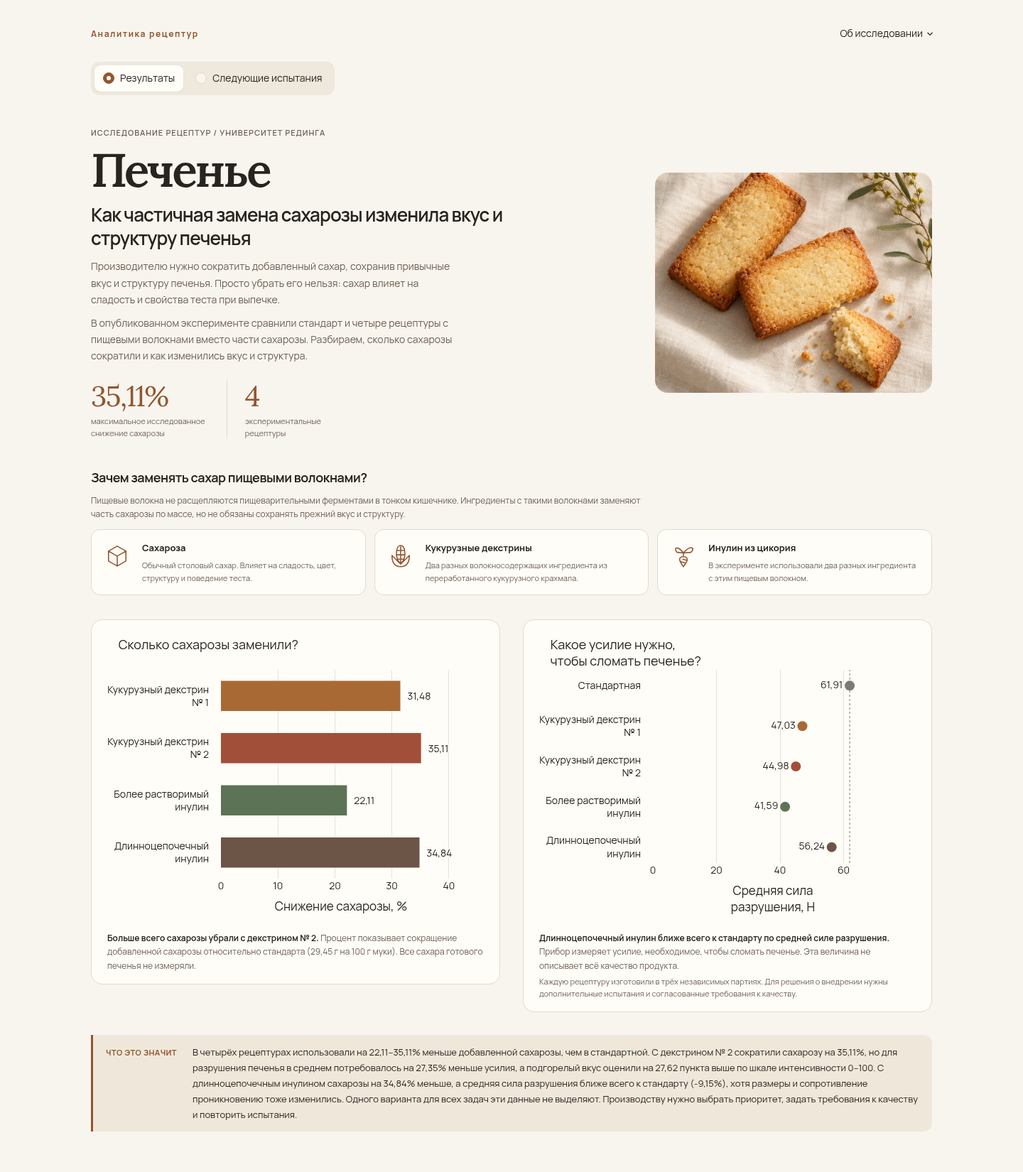
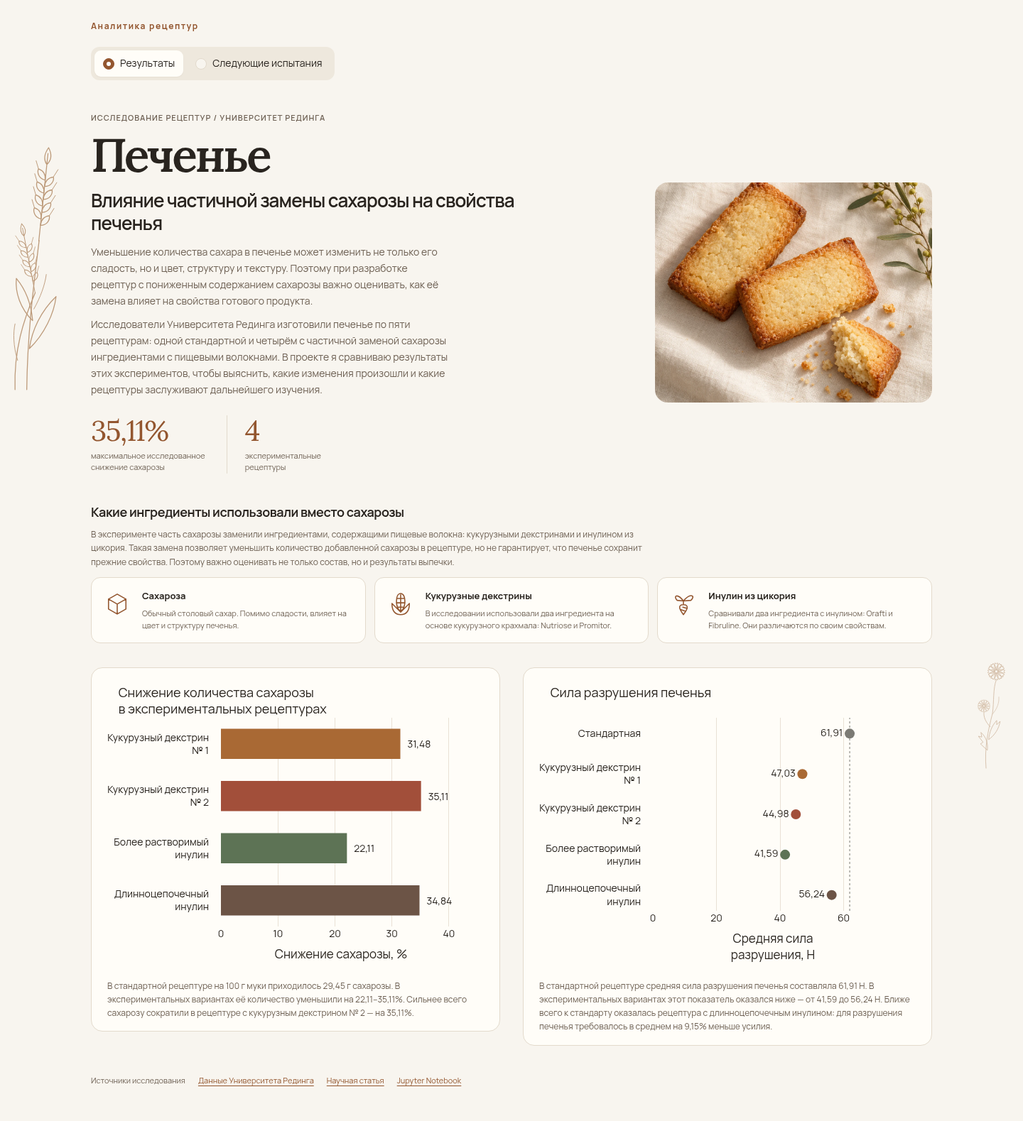
Polish recommendation cards, sources and responsive checks

diff --git a/data/assets/styles.css b/data/assets/styles.css
@@ -89,13 +89,13 @@
   background: var(--paper); border: 1px solid var(--line); border-top: 3px solid var(--recipe-color);
   border-radius: 14px; padding: 18px; display: flex; flex-direction: column;
 }
-.priority {font-size: 10px; font-weight: 650; color: var(--muted); text-transform: uppercase; letter-spacing: .035em; margin: 0 0 12px; min-height: 30px;}
 .recommendation h3 {font-family: Manrope, sans-serif; font-size: 15px; line-height: 1.4; margin: 0 0 14px; min-height: 42px;}
 .recommendation-result {font-family: Lora, Georgia, serif; font-size: 30px; line-height: 1.2; letter-spacing: -.03em; color: var(--recipe-color);}
 .result-label {font-size: 11px; color: var(--muted); line-height: 1.55; margin: 5px 0 16px; min-height: 34px;}
 .recommendation-story {font-size: 12px; line-height: 1.7; margin: 0 0 18px;}
 .next-test {font-size: 12px; line-height: 1.65; margin: auto 0 0; border-top: 1px solid var(--line); padding-top: 12px; min-height: 90px;}
-.next-test strong {display: block; margin-bottom: 3px; font-size: 10px; color: var(--muted); font-weight: 600; text-transform: uppercase; letter-spacing: .035em;}
+.study-sources {display: flex; flex-wrap: wrap; gap: 8px 18px; margin-top: 24px; font-size: 11px; line-height: 1.6; color: var(--muted);}
+.study-sources a {color: var(--caramel); text-underline-offset: 3px;}
 @media (max-width: 1050px) {
   .stMainBlockContainer {padding: 1.5rem 2rem 2rem;}
   .hero {gap: 26px;}
@@ -105,6 +105,12 @@
   .ingredient-card {padding: 12px; gap: 10px;}
   .ingredient-icon {width: 32px; height: 32px;}
   .recommendation {padding: 14px;}
+}
+@media (max-width: 900px) {
+  [data-testid="stHorizontalBlock"]:has(.st-key-sugar_panel) {flex-direction: column;}
+  [data-testid="stHorizontalBlock"]:has(.st-key-sugar_panel) > [data-testid="stColumn"] {width: 100%; flex: 1 1 100%;}
+  .recommendation-grid {grid-template-columns: 1fr;}
+  .recommendation h3, .result-label, .next-test {min-height: unset;}
 }
 @media (max-width: 740px) {
   .stMainBlockContainer {padding: 1rem 1rem 1.8rem;}
@@ -128,7 +134,6 @@
   .page-heading h1 {font-size: 28px;}
   .recommendations h2 {font-size: 17px;}
   .recommendation h3 {min-height: unset; margin-bottom: 10px;}
-  .priority {min-height: unset;}
   .result-label {min-height: unset; margin-bottom: 12px;}
   .recommendation-result {font-size: 29px;}
   .next-test {min-height: unset;}

diff --git a/data/tests/browser_smoke.py b/data/tests/browser_smoke.py
@@ -24,11 +24,19 @@ def check_page(page, plots, points):
     assert page.locator('[data-testid="stException"]').count() == 0
     expect(page).to_have_title("Печенье · снижение сахарозы")
     assert not page.evaluate("document.documentElement.scrollWidth > innerWidth")
-    expect(page.get_by_role("button", name="Об исследовании", exact=True)).to_have_count(0)
     expect(page.locator('.takeaway')).to_have_count(0)
-    # Источники и ограничения сохранены в README и notebook.
-    assert page.get_by_role("link", name="Научная статья", exact=True).count() == 0
-    assert page.get_by_text("Rodriguez-Garcia et al., 2022", exact=False).count() == 0
+    assert page.evaluate('document.fonts.check("14px Manrope") && document.fonts.check("16px Lora")')
+    footer = page.locator('.study-sources')
+    expect(footer).to_have_count(1)
+    for name, href in [
+        ("Данные Университета Рединга", "https://doi.org/10.17864/1947.000384"),
+        ("Научная статья", "https://doi.org/10.1016/j.lwt.2022.113837"),
+        ("Jupyter Notebook", "https://github.com/Alina-lab/cookies/blob/main/biscuit_recipe_analysis.ipynb"),
+    ]:
+        link = footer.get_by_role('link', name=name, exact=True)
+        expect(link).to_have_attribute('href', href)
+        link.scroll_into_view_if_needed()
+        expect(link).to_be_visible()
     ornaments = page.locator('[data-testid="stAppViewContainer"]').evaluate("""e =>
         ['::before', '::after'].map(pseudo => {
             const s=getComputedStyle(e, pseudo);
@@ -49,6 +57,17 @@ def check_page(page, plots, points):
         assert left['left'] >= 0 and left['left'] + left['width'] < content['x'], left
         assert right['right'] >= 0 and right['right'] + right['width'] < width - content['x'] - content['width'], right
         assert left['width'] > right['width'] and left['opacity'] > right['opacity'], ornaments
+
+
+def check_text_layout(page):
+    overflowing = page.locator('.hero h1, .hero-question, .page-heading h1, .ingredient-card, .recommendation, .recommendation h3, .recommendation-result, .result-label, .recommendation-story, .next-test, .study-sources a').evaluate_all('''es =>
+        es.filter(e=>{
+            // Выносные элементы шрифта могут выходить за line-height без обрезания.
+            const clipped=['hidden','clip'].includes(getComputedStyle(e).overflowY);
+            return e.scrollWidth>e.clientWidth+1 || (clipped && e.scrollHeight>e.clientHeight+1);
+        }).map(e=>e.textContent)
+    ''')
+    assert not overflowing, overflowing
 
 
 def check_chart_labels(page):
@@ -87,11 +106,25 @@ def check_chart_labels(page):
             assert gaps['between'] >= 20, gaps
 
 
-def screenshot(page, directory, name):
+def screenshot(page, directory, name, top=True):
     if directory:
         page.mouse.move(0, 0)
-        page.locator('[data-testid="stMain"]').evaluate("e => e.scrollTop=0")
+        if top:
+            page.locator('[data-testid="stMain"]').evaluate("e => e.scrollTop=0")
+        page.wait_for_function("[...document.querySelectorAll('.modebar--hover .modebar-group')].every(e=>parseFloat(getComputedStyle(e).opacity)<0.01)")
         page.screenshot(path=str(directory / name))
+
+
+def full_screenshot(page, directory, name):
+    if directory:
+        # Снимаем всю страницу в высоком окне той же ширины, без изменения CSS.
+        viewport = page.viewport_size
+        page.locator('[data-testid="stMain"]').evaluate('e=>e.scrollTop=0')
+        height = page.locator('[data-testid="stMain"]').evaluate('e=>e.scrollHeight')
+        page.set_viewport_size({'width': viewport['width'], 'height': height + 4})
+        page.evaluate("new Promise(r=>requestAnimationFrame(()=>requestAnimationFrame(r)))")
+        screenshot(page, directory, name)
+        page.set_viewport_size(viewport)
 
 
 def run(executable=None, screenshots=None):
@@ -107,7 +140,8 @@ def run(executable=None, screenshots=None):
         errors = []
         page.on("pageerror", lambda error: errors.append(str(error)))
         page.goto("http://127.0.0.1:8501", wait_until="networkidle")
-        for width, height in [(1440, 1100), (1024, 900), (390, 844)]:
+        sizes = [(1440, 1100), (1360, 900), (1024, 900), (768, 1024), (390, 844)]
+        for width, height in sizes:
             page.set_viewport_size({"width": width, "height": height})
             page.get_by_text("Результаты", exact=True).click()
             page.get_by_role("heading", name="Печенье", exact=True).wait_for()
@@ -119,13 +153,24 @@ def run(executable=None, screenshots=None):
             assert page.locator(".hero").evaluate("e=>getComputedStyle(e).gridTemplateColumns.split(' ').length") == (1 if width == 390 else 2)
             assert page.locator(".ingredient-grid").evaluate("e=>getComputedStyle(e).gridTemplateColumns.split(' ').length") == (1 if width == 390 else 3)
             assert page.locator(".hero h1").evaluate("e=>getComputedStyle(e).fontFamily").startswith("Lora")
+            panels = page.locator('.st-key-sugar_panel, .st-key-force_panel').evaluate_all('es=>es.map(e=>e.getBoundingClientRect().toJSON())')
+            if width <= 900:
+                assert panels[1]['top'] >= panels[0]['bottom'], panels
+            else:
+                assert abs(panels[0]['top'] - panels[1]['top']) < 2, panels
             check_chart_labels(page)
+            check_text_layout(page)
             assert page.locator(".js-plotly-plot").nth(1).evaluate("e=>e.data[0].type") == "scatter"
             for index, value, selector in [(0, "31,48", ".barlayer .point path"), (1, "61,91", ".scatterlayer .point")]:
                 graph=page.locator(".js-plotly-plot").nth(index)
                 graph.locator(selector).first.hover(force=True)
                 expect(graph.locator(".hoverlayer")).to_contain_text(value)
             screenshot(page, output, f"results-{width}.png")
+            if output and width == 1440:
+                page.locator('.st-key-sugar_panel').scroll_into_view_if_needed()
+                screenshot(page, output, 'results-charts-1440.png', top=False)
+            if width in (1440, 390):
+                full_screenshot(page, output, f'results-full-{width}.png')
             page.get_by_text("Следующие испытания", exact=True).click()
             page.get_by_role("heading", name="Сравнение экспериментальных рецептур", exact=True).wait_for()
             check_page(page, 1, [4])
@@ -133,24 +178,33 @@ def run(executable=None, screenshots=None):
             page.locator('[data-testid="stDataFrame"] canvas').first.wait_for()
             expect(page.locator(".recommendation")).to_have_count(3)
             assert page.locator(".recommendation").evaluate_all("es=>es.map(e=>e.dataset.recipeId)") == ["promitor", "fibruline", "nutriose"]
-            expect(page.locator(".recommendation-result")).to_have_text(["35,11%", "-9,15%", "+5,67 / +5,94"])
+            expect(page.locator(".recommendation-result")).to_have_text(["35,11%", "−9,15%", "+5,67 / +5,94"])
             expect(page.locator(".recommendation-story")).to_have_count(3)
-            expect(page.locator('.recommendation[data-recipe-id="promitor"] .next-test strong')).to_have_count(0)
-            expect(page.locator('.recommendation .next-test strong')).to_have_count(2)
-            if width != 390:
-                heights=page.locator('.recommendation').evaluate_all('es=>es.map(e=>e.getBoundingClientRect().height)')
-                assert max(heights)-min(heights) < 2, heights
-            assert page.locator(".recommendation-grid").evaluate("e=>getComputedStyle(e).gridTemplateColumns.split(' ').length") == (1 if width == 390 else 3)
+            expect(page.locator('.recommendation .priority, .recommendation .next-test strong')).to_have_count(0)
+            expect(page.locator('.recommendation h3')).to_have_text(['Кукурузный декстрин № 2', 'Длинноцепочечный инулин', 'Кукурузный декстрин № 1'])
+            expect(page.locator('.recommendation .result-label')).to_have_text(['снижение сахарозы', 'изменение средней силы разрушения', 'изменение горечи и подгорелого вкуса, пункты'])
+            expect(page.locator('.recommendation .next-test')).to_have_count(3)
+            if width > 900:
+                alignment=page.locator('.recommendation').evaluate_all('''es=>es.map(e=>{
+                    const r=e.getBoundingClientRect(),s=getComputedStyle(e);
+                    return {height:r.height,padding:s.padding,positions:['h3','.recommendation-result','.result-label','.next-test'].map(selector=>e.querySelector(selector).getBoundingClientRect().top-r.top)};
+                })''')
+                assert max(e['height'] for e in alignment)-min(e['height'] for e in alignment) < 2, alignment
+                assert len({e['padding'] for e in alignment}) == 1, alignment
+                for i in range(4):
+                    assert max(e['positions'][i] for e in alignment)-min(e['positions'][i] for e in alignment) < 2, alignment
+            assert page.locator(".recommendation-grid").evaluate("e=>getComputedStyle(e).gridTemplateColumns.split(' ').length") == (1 if width <= 900 else 3)
             check_chart_labels(page)
+            check_text_layout(page)
             assert page.locator(".js-plotly-plot").evaluate("e=>e.data.map(t=>t.name)") == ["Горечь", "Подгорелый вкус"]
             for index, value in [(0, "+5,67"), (1, "+5,94")]:
                 # У короткого столбца SVG-группа включает подпись за его краем.
                 # Наводим курсор на сам столбец, а не на центр всей группы.
                 page.locator(".barlayer .trace").nth(index).locator(".point path").first.hover(force=True)
                 expect(page.locator(".hoverlayer")).to_contain_text(value)
-            # Таблица остаётся доступной при внутренней прокрутке на телефоне.
-            if width == 390:
-                scroll=page.locator('[data-testid="stDataFrame"] .dvn-scroller')
+            # Широкая таблица прокручивается внутри контейнера, а не вместе со страницей.
+            scroll=page.locator('[data-testid="stDataFrame"] .dvn-scroller')
+            if scroll.evaluate('e=>e.scrollWidth>e.clientWidth'):
                 scroll.evaluate("e=>e.scrollLeft=e.scrollWidth-e.clientWidth")
                 assert scroll.evaluate("e=>e.scrollLeft>0")
                 scroll.evaluate("e=>e.scrollLeft=0")
@@ -170,10 +224,12 @@ def run(executable=None, screenshots=None):
             screenshot(page, output, f"candidates-{width}.png")
             if output:
                 page.locator('.recommendations').scroll_into_view_if_needed()
-                page.screenshot(path=str(output/f"recommendations-{width}.png"))
+                screenshot(page, output, f"recommendations-{width}.png", top=False)
+                if width in (1440, 390):
+                    full_screenshot(page, output, f'candidates-full-{width}.png')
             assert not page.evaluate("document.documentElement.scrollWidth > innerWidth")
         assert not errors, errors
-        print("Chromium: обе страницы, боковой декор и его скрытие на узких экранах, иллюстрация и иконки, карточки, три графика, таблица и CSV проверены на 1440/1024/390 px; ошибок JavaScript нет.")
+        print("Chromium: 10 проверок страниц на 1440/1360/1024/768/390 px; три графика и подсказки, карточки и выравнивание, источники, SVG, изображения и шрифты, таблица и CSV. Перекрытий и горизонтальной прокрутки нет; ошибок Streamlit и JavaScript нет.")
         browser.close()
 
 

diff --git a/app.py b/app.py
@@ -270,31 +270,33 @@ def recommendation_cards(tables):
     taste = candidates.index[(candidates.bitterness_delta_points.abs() == candidates.bitterness_delta_points.abs().min())
                              & (candidates.burnt_taste_delta_points.abs() == candidates.burnt_taste_delta_points.abs().min())][0]
     choices = [
-        (sugar, "Сильнее сократить сахарозу", number(candidates.loc[sugar, "sucrose_reduction_pct"]) + "%",
+        (sugar, number(candidates.loc[sugar, "sucrose_reduction_pct"]) + "%",
          "снижение сахарозы",
          f'В этой рецептуре удалось добиться наибольшего сокращения сахарозы — на {number(candidates.loc[sugar, "sucrose_reduction_pct"])}% относительно стандарта. '
          f'Однако средняя сила разрушения печенья уменьшилась на {number(-candidates.loc[sugar, "breaking_relative_delta_pct"])}%, '
          f'а интенсивность подгорелого вкуса выросла на {number(candidates.loc[sugar, "burnt_taste_delta_points"])} пункта.',
          "При повторных испытаниях необходимо выяснить, насколько эти изменения допустимы для производства."),
-        (force, "Близкая к стандарту сила разрушения", number(candidates.loc[force, "breaking_relative_delta_pct"], signed=True) + "%",
+        (force, number(candidates.loc[force, "breaking_relative_delta_pct"], signed=True).replace("-", "−") + "%",
          "изменение средней силы разрушения",
-         f'При сокращении сахарозы на {number(candidates.loc[force, "sucrose_reduction_pct"])}% средняя сила разрушения оказалась ближе всего к стандарту. '
-         'Но печенье было короче на 7,87%, а сопротивление проколу — выше на 32,24%. Близкая сила разрушения ещё не означает, что текстура осталась прежней.',
-         "При следующих выпечках нужно сравнить со стандартом размеры, сопротивление проколу и силу разрушения."),
-        (taste, "Меньшие изменения горечи и подгорелого вкуса", number(candidates.loc[taste, "bitterness_delta_points"], signed=True) + " / " +
+         f'При замене части сахарозы длинноцепочечным инулином её количество сократилось на {number(candidates.loc[force, "sucrose_reduction_pct"])}%. '
+         f'Средняя сила разрушения оказалась на {number(-candidates.loc[force, "breaking_relative_delta_pct"])}% ниже стандарта — это наименьшее изменение среди экспериментальных рецептур. '
+         'При этом длина печенья уменьшилась на 7,87%, а сопротивление проколу увеличилось на 32,24%.',
+         "При повторных испытаниях необходимо проверить размеры печенья, сопротивление проколу и силу разрушения."),
+        (taste, number(candidates.loc[taste, "bitterness_delta_points"], signed=True) + " / " +
          number(candidates.loc[taste, "burnt_taste_delta_points"], signed=True),
-         "горечь / подгорелый вкус, пункты 0–100",
-         'По средним оценкам этот вариант ближе всего к стандарту по горечи и подгорелому вкусу. '
-         f'При этом печенье было ниже стандартного, а для его разрушения в среднем требовалось на {number(-candidates.loc[taste, "breaking_relative_delta_pct"])}% меньше усилия.',
-         "При повторных выпечках стоит оценить оба вкусовых признака, измерить высоту и силу разрушения печенья."),
+         "изменение горечи и подгорелого вкуса, пункты",
+         'В рецептуре с кукурузным декстрином № 1 оценки горечи и подгорелого вкуса отличались от стандарта меньше всего: '
+         f'на {number(candidates.loc[taste, "bitterness_delta_points"])} и {number(candidates.loc[taste, "burnt_taste_delta_points"])} пункта соответственно. '
+         f'Средняя сила разрушения при этом уменьшилась на {number(-candidates.loc[taste, "breaking_relative_delta_pct"])}%.',
+         "При повторных испытаниях необходимо оценить вкусовые характеристики и физические свойства печенья."),
     ]
     cards = "".join(
         f'<article class="recommendation" data-recipe-id="{rid}" style="--recipe-color:{PALETTE[rid]}">'
-        f'<p class="priority">{priority}</p><h3>{escape(candidates.loc[rid, "recipe_name_ru"])}</h3>'
+        f'<h3>{escape(candidates.loc[rid, "recipe_name_ru"])}</h3>'
         f'<div class="recommendation-result">{value}</div><p class="result-label">{label}</p>'
         f'<p class="recommendation-story">{story}</p>'
-        f'<p class="next-test">{next_test if rid == sugar else "<strong>Что проверить</strong>" + next_test}</p></article>'
-        for rid, priority, value, label, story, next_test in choices)
+        f'<p class="next-test">{next_test}</p></article>'
+        for rid, value, label, story, next_test in choices)
     st.html('<section class="recommendations"><h2>Рекомендации по рецептурам</h2>'
             '<div class="recommendation-grid">' + cards + '</div></section>')
 
@@ -337,6 +339,12 @@ def main():
         results_page(tables)
     else:
         candidates_page(tables)
+    st.html('<footer class="study-sources" aria-label="Источники исследования">'
+            '<span>Источники исследования</span>'
+            '<a href="https://doi.org/10.17864/1947.000384" target="_blank" rel="noopener noreferrer">Данные Университета Рединга</a>'
+            '<a href="https://doi.org/10.1016/j.lwt.2022.113837" target="_blank" rel="noopener noreferrer">Научная статья</a>'
+            '<a href="https://github.com/Alina-lab/cookies/blob/main/biscuit_recipe_analysis.ipynb" target="_blank" rel="noopener noreferrer">Jupyter Notebook</a>'
+            '</footer>')
 
 
 if __name__ == "__main__":

diff --git a/data/tests/test_app.py b/data/tests/test_app.py
@@ -102,7 +102,6 @@ class CookiesAppTests(unittest.TestCase):
             self.assertIn(term, html)
         self.assertEqual(html.count('class="ingredient-card"'), 3)
         self.assertNotIn("Общее содержание сахаров в готовом печенье не измерялось", html)
-        self.assertNotIn("doi.org", html)
 
     def test_candidates_table_taste_and_recommendations(self):
         at = AppTest.from_file(str(ROOT / "app.py"), default_timeout=20).run()
@@ -148,19 +147,41 @@ class CookiesAppTests(unittest.TestCase):
         self.assertIn("Все значения взяты из опубликованных средних оценок по шкале от 0 до 100.", html)
         self.assertIn("горечь увеличилась на 19,29 пункта, а подгорелый вкус — на 35,80 пункта", html)
         self.assertEqual(re.findall(r'data-recipe-id="([^"]+)', html), ["promitor", "fibruline", "nutriose"])
-        for value in ["35,11%", "−9,15%", "+5,67 / +5,94"]:
-            self.assertIn(value.replace("−", "-"), html)
         self.assertEqual(html.count('class="recommendation-story"'), 3)
-        for term in ["27,35%", "27,62 пункта", "34,84%", "24,04%", "32,24%", "7,87%",
-                     "При повторных испытаниях необходимо выяснить, насколько эти изменения допустимы для производства.", "При следующих выпечках нужно сравнить со стандартом размеры",
-                     "При повторных выпечках стоит оценить оба вкусовых признака", "Рекомендации по рецептурам"]:
-            self.assertIn(term, html)
-        first_card = re.search(r'<article class="recommendation" data-recipe-id="promitor".*?</article>', html).group(0)
-        self.assertNotIn("Что проверить", first_card)
-        self.assertIn("В этой рецептуре удалось добиться наибольшего сокращения сахарозы — на 35,11% относительно стандарта. Однако средняя сила разрушения печенья уменьшилась на 27,35%, а интенсивность подгорелого вкуса выросла на 27,62 пункта.", first_card)
-        self.assertEqual(html.count("<strong>Что проверить</strong>"), 2)
-        self.assertNotIn("doi.org", html)
+        approved_cards = [
+            ("promitor", "35,11%", "снижение сахарозы",
+             "В этой рецептуре удалось добиться наибольшего сокращения сахарозы — на 35,11% относительно стандарта. Однако средняя сила разрушения печенья уменьшилась на 27,35%, а интенсивность подгорелого вкуса выросла на 27,62 пункта.",
+             "При повторных испытаниях необходимо выяснить, насколько эти изменения допустимы для производства."),
+            ("fibruline", "−9,15%", "изменение средней силы разрушения",
+             "При замене части сахарозы длинноцепочечным инулином её количество сократилось на 34,84%. Средняя сила разрушения оказалась на 9,15% ниже стандарта — это наименьшее изменение среди экспериментальных рецептур. При этом длина печенья уменьшилась на 7,87%, а сопротивление проколу увеличилось на 32,24%.",
+             "При повторных испытаниях необходимо проверить размеры печенья, сопротивление проколу и силу разрушения."),
+            ("nutriose", "+5,67 / +5,94", "изменение горечи и подгорелого вкуса, пункты",
+             "В рецептуре с кукурузным декстрином № 1 оценки горечи и подгорелого вкуса отличались от стандарта меньше всего: на 5,67 и 5,94 пункта соответственно. Средняя сила разрушения при этом уменьшилась на 24,04%.",
+             "При повторных испытаниях необходимо оценить вкусовые характеристики и физические свойства печенья."),
+        ]
+        for rid, value, label, story, conclusion in approved_cards:
+            card = re.search(rf'<article class="recommendation" data-recipe-id="{rid}".*?</article>', html).group(0)
+            self.assertEqual(re.findall(r'<(?:h3|div|p)\b[^>]*>(.*?)</(?:h3|div|p)>', card),
+                             [candidates.set_index("recipe_id").loc[rid, "recipe_name_ru"], value, label, story, conclusion])
+            self.assertNotIn("priority", card)
+            self.assertNotIn("Что проверить", card)
         self.assertEqual(len(at.get("download_button")), 1)
+
+    def test_sources_footer_on_both_pages(self):
+        at = AppTest.from_file(str(ROOT / "app.py"), default_timeout=20).run()
+        expected_links = [
+            ("https://doi.org/10.17864/1947.000384", "Данные Университета Рединга"),
+            ("https://doi.org/10.1016/j.lwt.2022.113837", "Научная статья"),
+            ("https://github.com/Alina-lab/cookies/blob/main/biscuit_recipe_analysis.ipynb", "Jupyter Notebook"),
+        ]
+        for page in app.PAGES:
+            at.radio(key="page").set_value(page).run()
+            self.healthy(at)
+            html = html_bodies(at)
+            footers = re.findall(r'<footer class="study-sources".*?</footer>', html)
+            self.assertEqual(len(footers), 1)
+            self.assertEqual(re.findall(r'<a href="([^"]+)" target="_blank" rel="noopener noreferrer">([^<]+)</a>', footers[0]), expected_links)
+            self.assertTrue(html.rstrip().endswith(footers[0]))
 
     def test_navigation_does_not_leave_hidden_old_content(self):
         at = AppTest.from_file(str(ROOT / "app.py"), default_timeout=20).run()

diff --git a/README.md b/README.md
@@ -22,7 +22,7 @@
 
 ## Дашборд
 
-Две страницы, три графика и одна сравнительная таблица. На второй странице можно скачать сравнение рецептур в CSV.
+Две страницы, три графика и одна сравнительная таблица. На второй странице можно скачать сравнение рецептур в CSV. Внизу обеих страниц — ссылки на данные исследования, научную статью и расчёты в notebook.
 
 ![Приложение «Печенье»: результаты исследования](data/assets/streamlit_preview.png)
 
@@ -56,7 +56,7 @@ py -3.12 -m venv .venv-app
 
 Откройте `http://localhost:8501`. На Linux/macOS используйте `.venv-app/bin/python`. Приложение читает готовые CSV и не требует исходных документов, ключей или внешней базы данных.
 
-Проверки из корня проекта: `.\.venv-app\Scripts\python.exe -m unittest discover -s data/tests -v`.
+Проверки из корня проекта: `.\.venv-app\Scripts\python.exe -m unittest discover -s data/tests -v`. Эти же тесты выполняются в GitHub Actions при push в main и pull request.
 
 ## Повторение анализа
 
